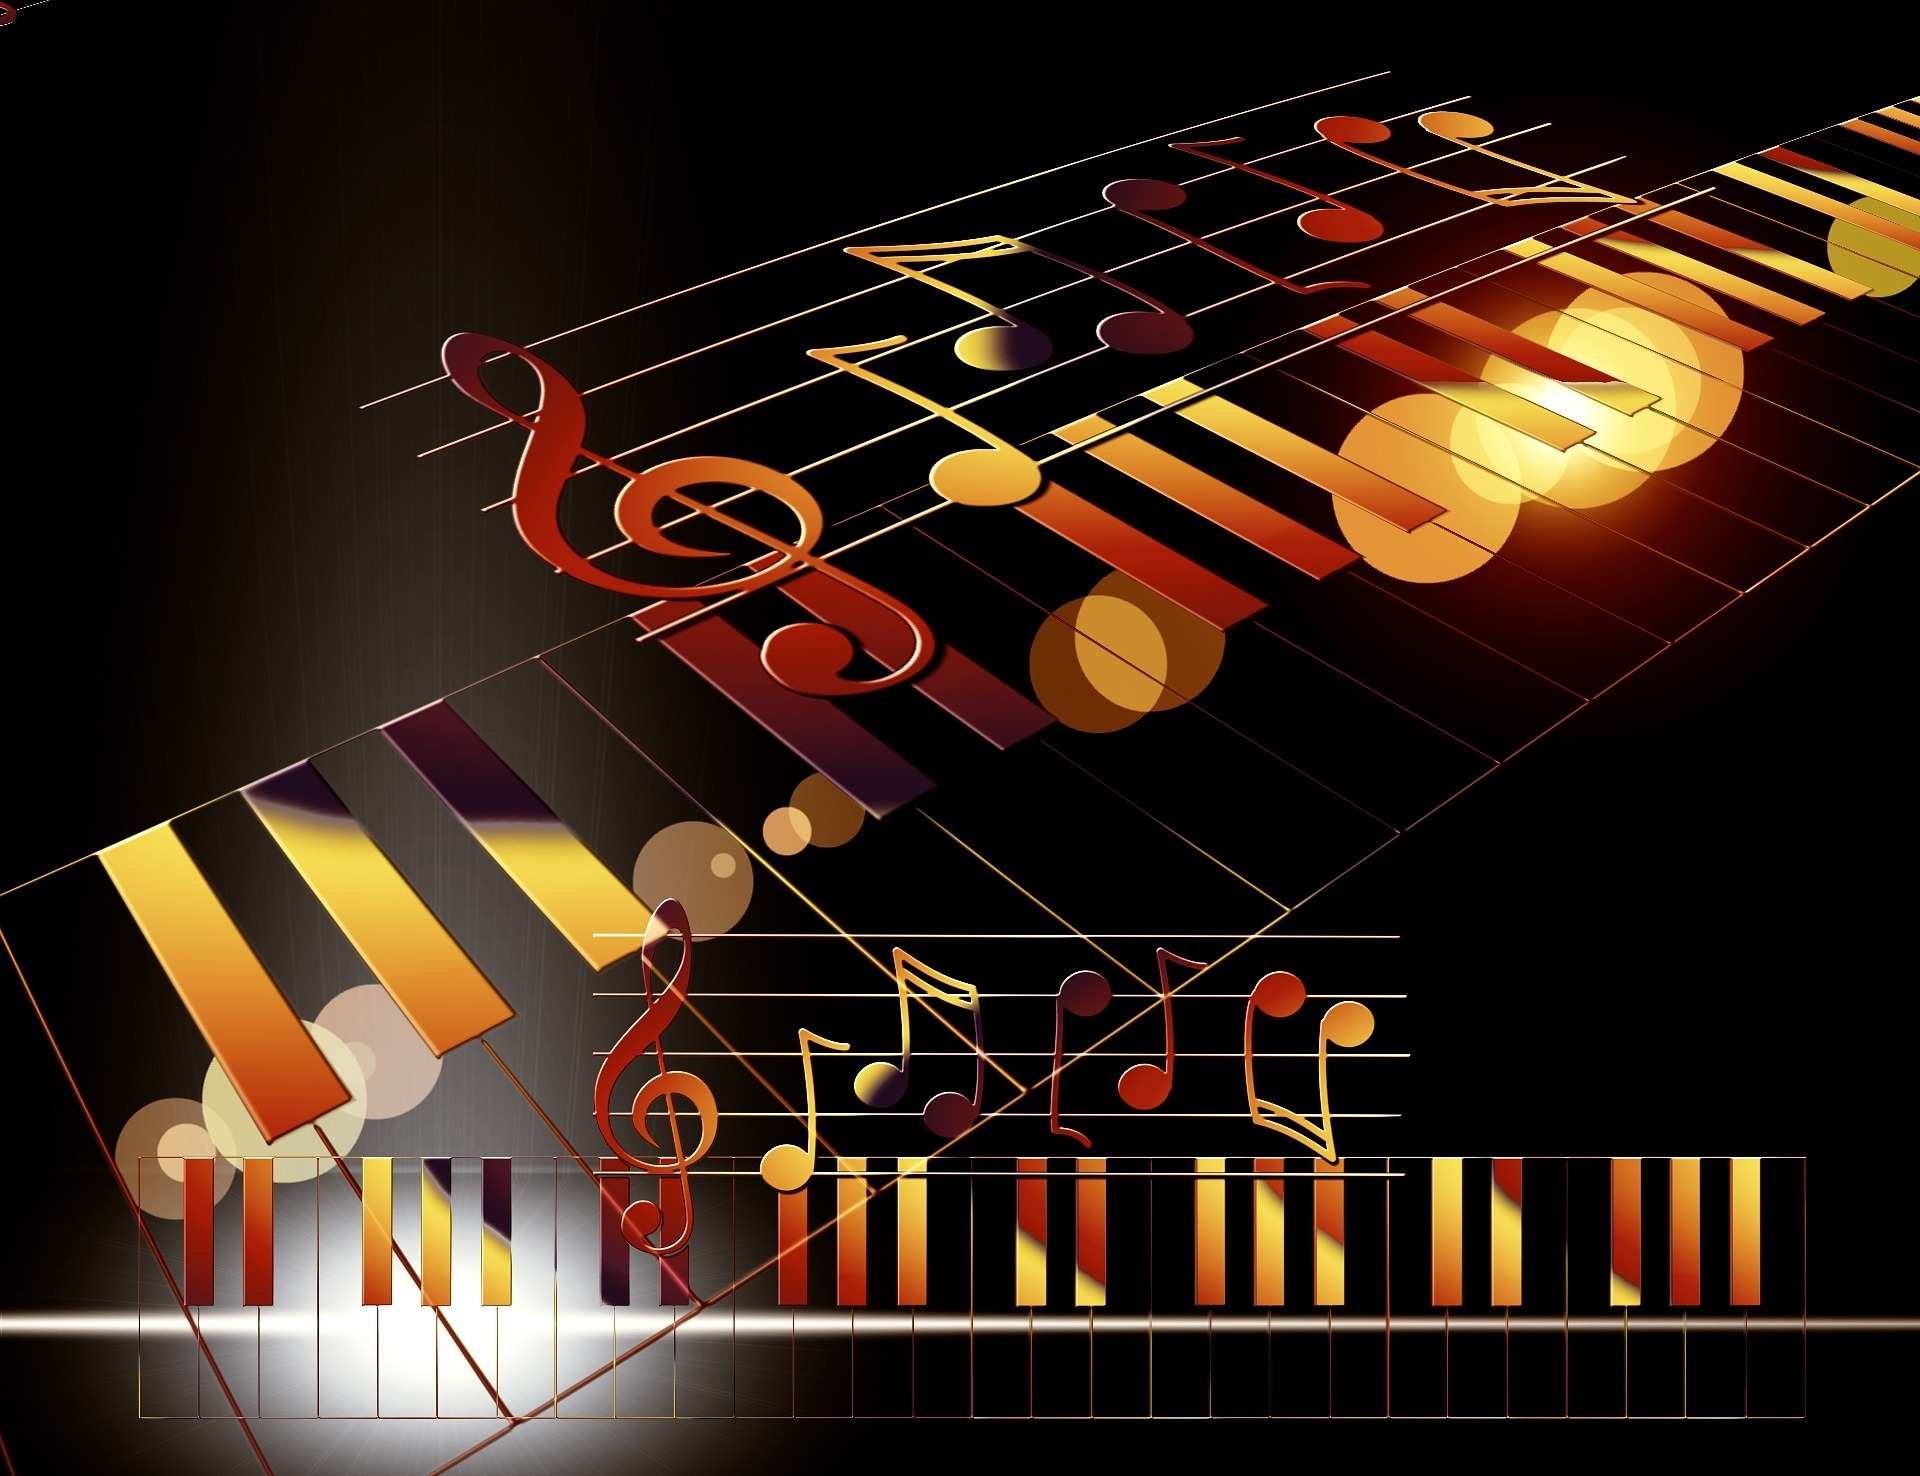
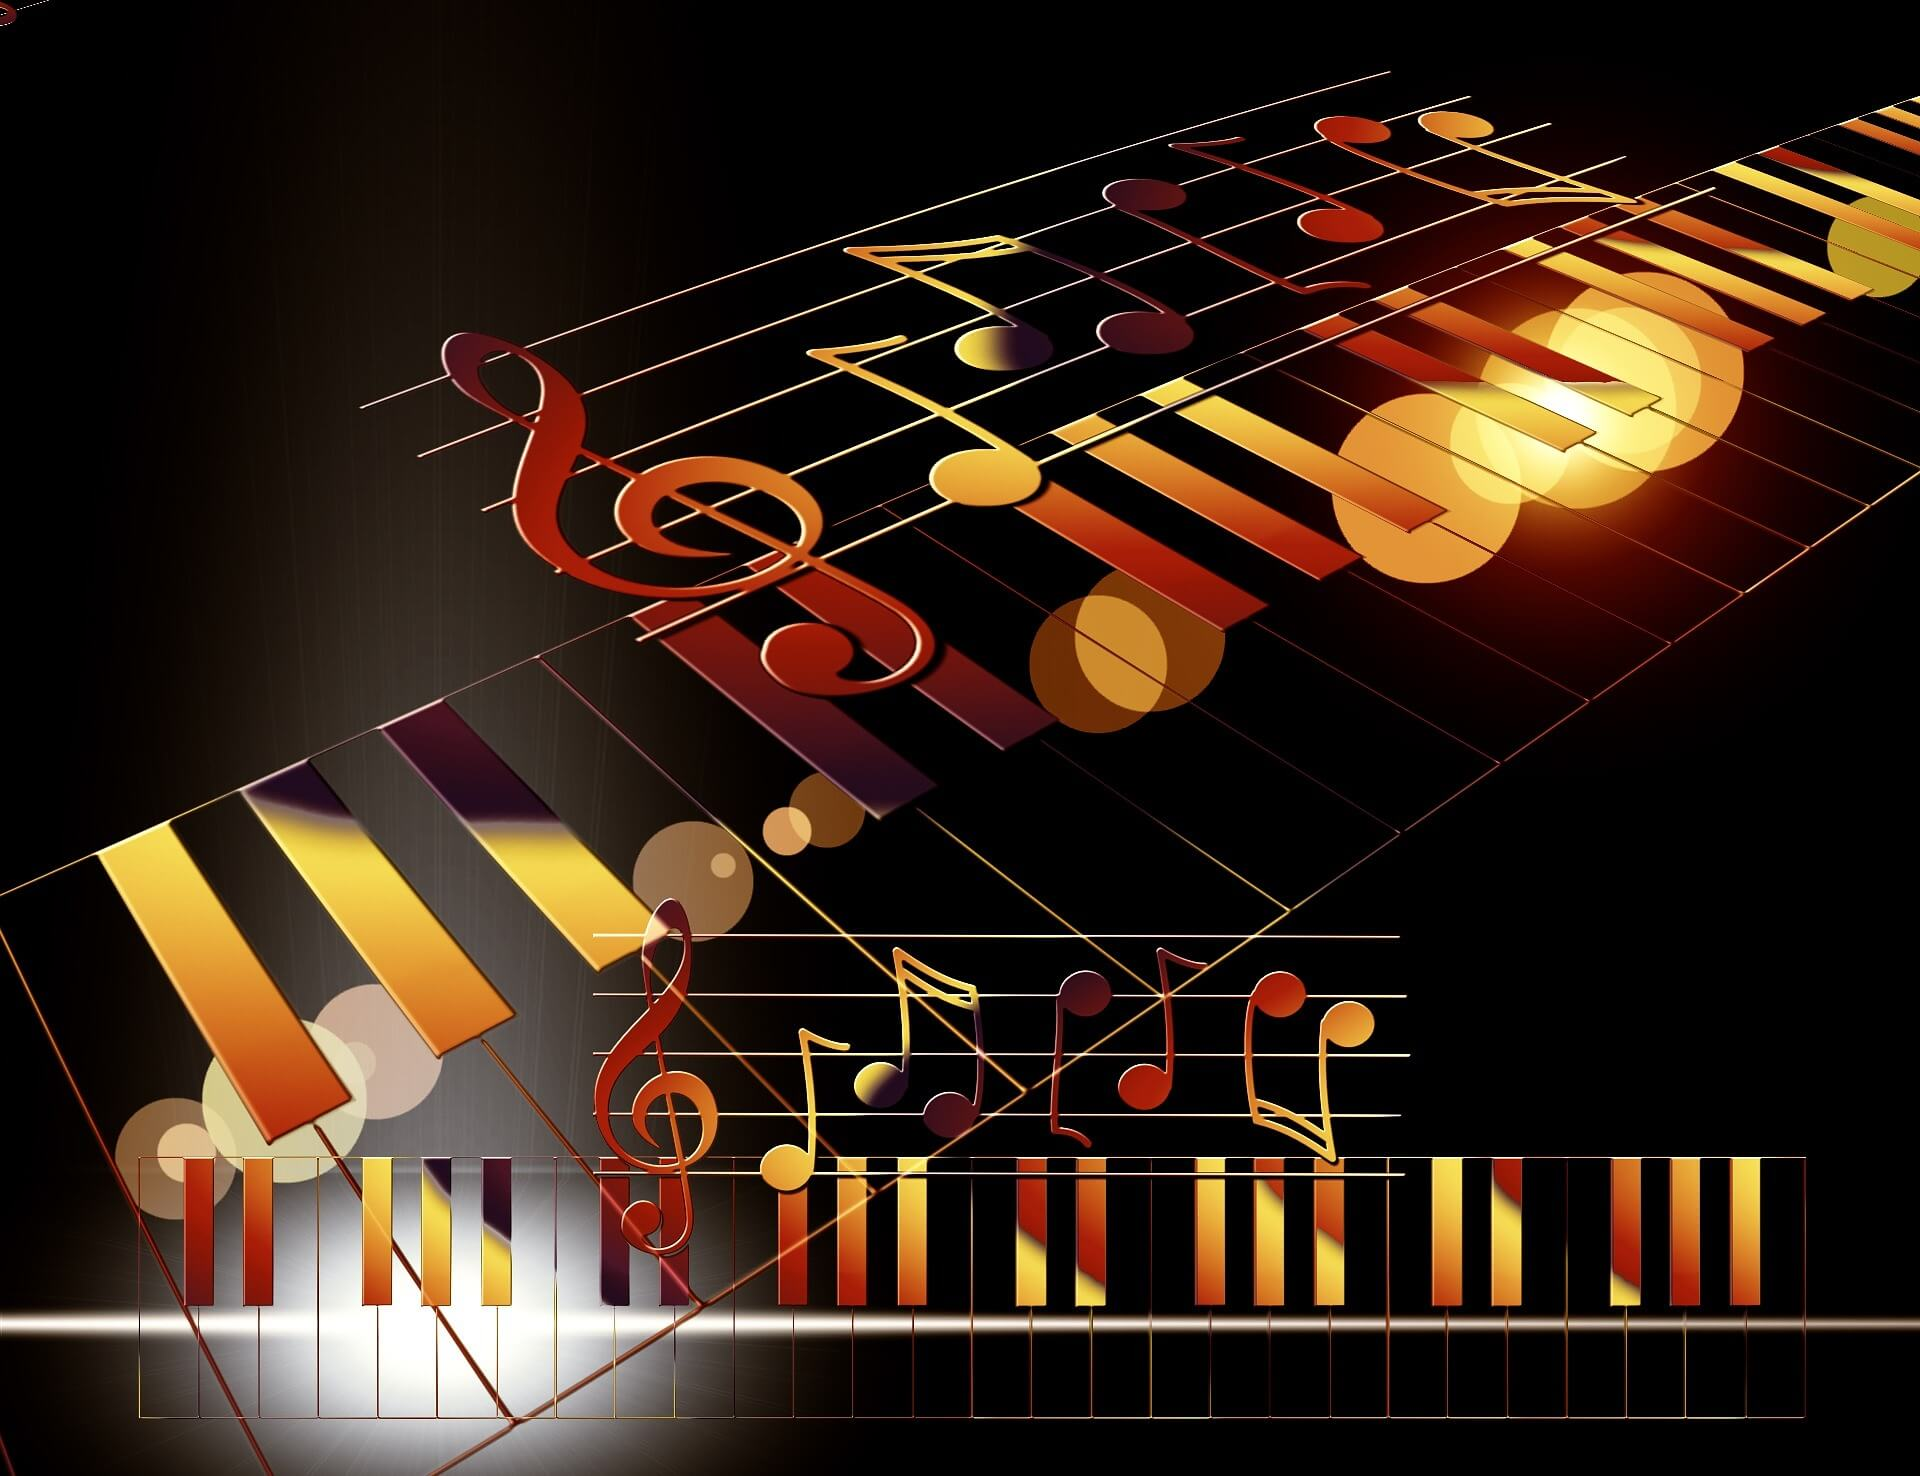
chore: clean up code and remove unused images

diff --git a/src/services/spotifyApi.ts b/src/services/spotifyApi.ts
@@ -38,7 +38,6 @@ class SpotifyApiService {
   private tokenExpiresAt: number = 0;
 
   constructor() {
-    // These should be environment variables in production
     this.clientId = import.meta.env.VITE_SPOTIFY_CLIENT_ID || '';
     this.clientSecret = import.meta.env.VITE_SPOTIFY_CLIENT_SECRET || '';
 
@@ -49,11 +48,8 @@ class SpotifyApiService {
     }
   }
 
-  /**
-   * Get access token using Client Credentials Flow
-   */
+  // Get access token using Client Credentials Flow
   private async getAccessToken(): Promise<string> {
-    // Return cached token if still valid
     if (this.accessToken && Date.now() < this.tokenExpiresAt) {
       return this.accessToken;
     }
@@ -90,9 +86,6 @@ class SpotifyApiService {
     }
   }
 
-  /**
-   * Search for tracks using Spotify Web API
-   */
   async searchTracks(
     query: string,
     limit: number = 20
@@ -135,25 +128,15 @@ class SpotifyApiService {
     }
   }
 
-  /**
-   * Format track duration from milliseconds to MM:SS
-   */
   formatDuration(durationMs: number): string {
     const minutes = Math.floor(durationMs / 60000);
     const seconds = Math.floor((durationMs % 60000) / 1000);
     return `${minutes}:${seconds.toString().padStart(2, '0')}`;
   }
 
-  /**
-   * Get the best quality image from album images array
-   */
   getBestImageUrl(images: SpotifyTrack['album']['images']): string | null {
     if (!images || images.length === 0) return null;
-
-    // Sort by size and return the medium sized image (around 300px)
     const sortedImages = images.sort((a, b) => b.width - a.width);
-
-    // Prefer medium size (around 300px) or fall back to largest
     const mediumImage = sortedImages.find(
       (img) => img.width >= 250 && img.width <= 400
     );
@@ -161,5 +144,4 @@ class SpotifyApiService {
   }
 }
 
-// Export singleton instance
 export const spotifyApi = new SpotifyApiService();

diff --git a/src/main.tsx b/src/main.tsx
@@ -1,4 +1,4 @@
-// import { StrictMode } from 'react';
+import { StrictMode } from 'react';
 import { createRoot } from 'react-dom/client';
 import './index.css';
 import App from './App.tsx';
@@ -10,10 +10,9 @@ if (!rootElement) {
 }
 
 createRoot(rootElement).render(
-  // Temporarily disable StrictMode for ErrorBoundary testing
-  // <StrictMode>
-  <ErrorBoundary>
-    <App />
-  </ErrorBoundary>
-  // </StrictMode>
+  <StrictMode>
+    <ErrorBoundary>
+      <App />
+    </ErrorBoundary>
+  </StrictMode>
 );

diff --git a/src/components/ResultsSection.tsx b/src/components/ResultsSection.tsx
@@ -3,10 +3,10 @@ import type { SpotifyTrack } from '../services/spotifyApi';
 import TrackResult from './TrackResult';
 import './ResultsSection.css';
 
-// Import images to ensure they're bundled correctly
+// Import images
 import spotifyLogo from '/images/full-logo-framed.svg';
 import vinylLoader from '/images/disk1.png';
-import catMascot from '/images/cat-big.png';
+import catMascot from '/images/cat-mascot.png';
 
 interface ResultsSectionProps {
   isLoading: boolean;

diff --git a/src/App.css b/src/App.css
@@ -26,7 +26,7 @@
 .main-card {
   display: flex;
   flex-direction: column;
-  background: url('/images/music-board-big.jpg') center/cover;
+  background: url('/images/music-board.jpg') center/cover;
   border-radius: 32px;
   box-shadow: 0 8px 32px rgba(0, 0, 0, 0.18);
   border: 3px solid var(--gold);
